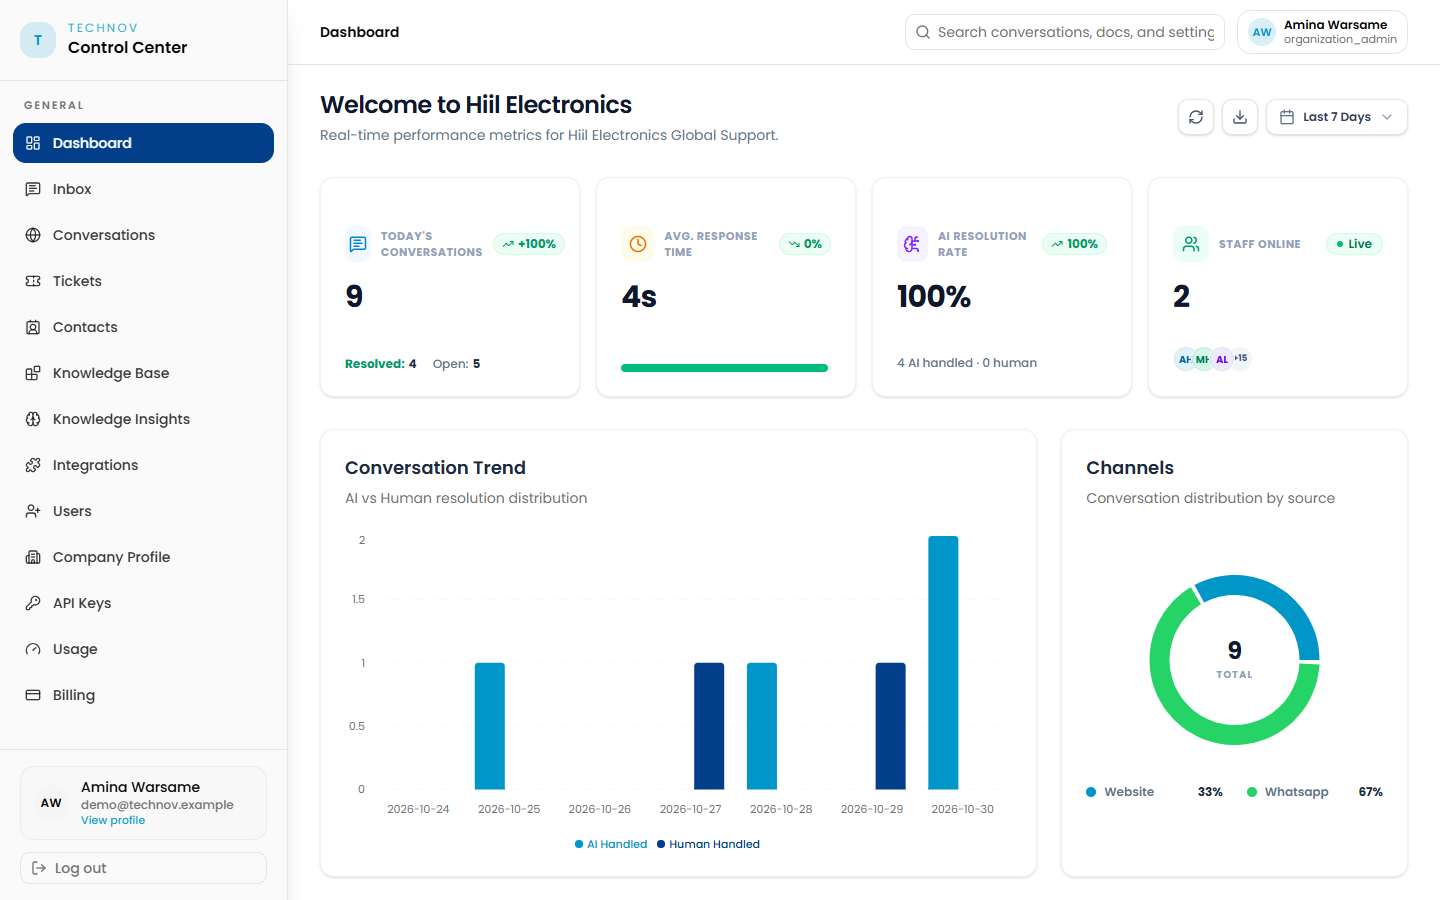
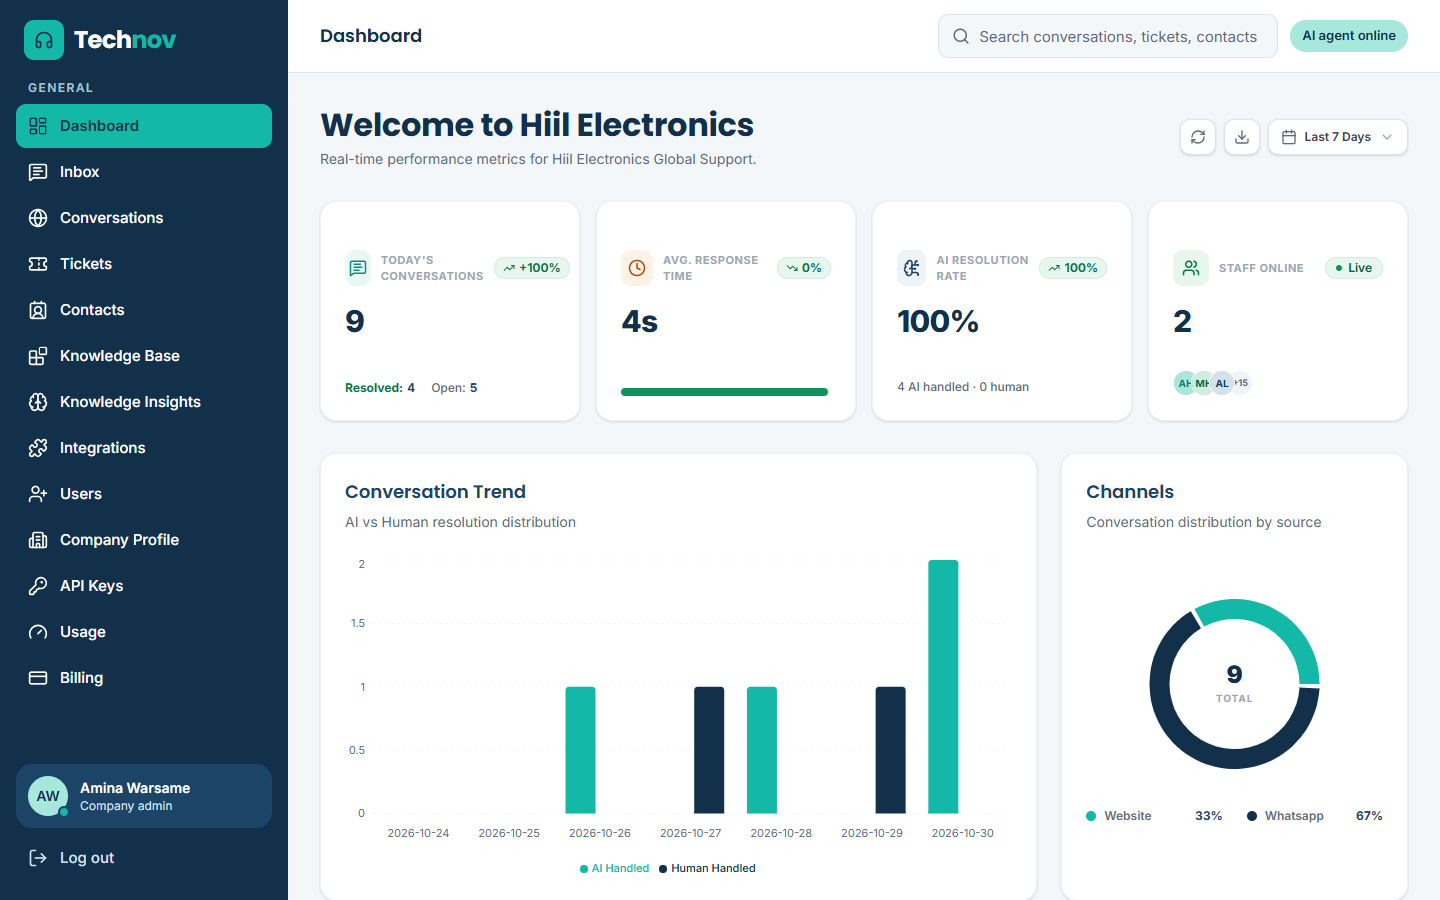
docs: refresh README screenshots with the redesigned UI
Dashboard, inbox, tickets and knowledge base recaptured in the new Deep
Navy and Teal design, plus the new landing page.

diff --git a/README.md b/README.md
@@ -70,6 +70,8 @@ Small and medium businesses get the same questions every day: *What are your pri
 
 > Demo data for a fictional shop, "Hiil Electronics".
 
+![Technov landing page](docs/screenshots/landing.png)
+
 | Analytics dashboard | Live inbox (WhatsApp + web) |
 | :---: | :---: |
 | ![Analytics dashboard](docs/screenshots/dashboard.png) | ![Live inbox](docs/screenshots/inbox.png) |
